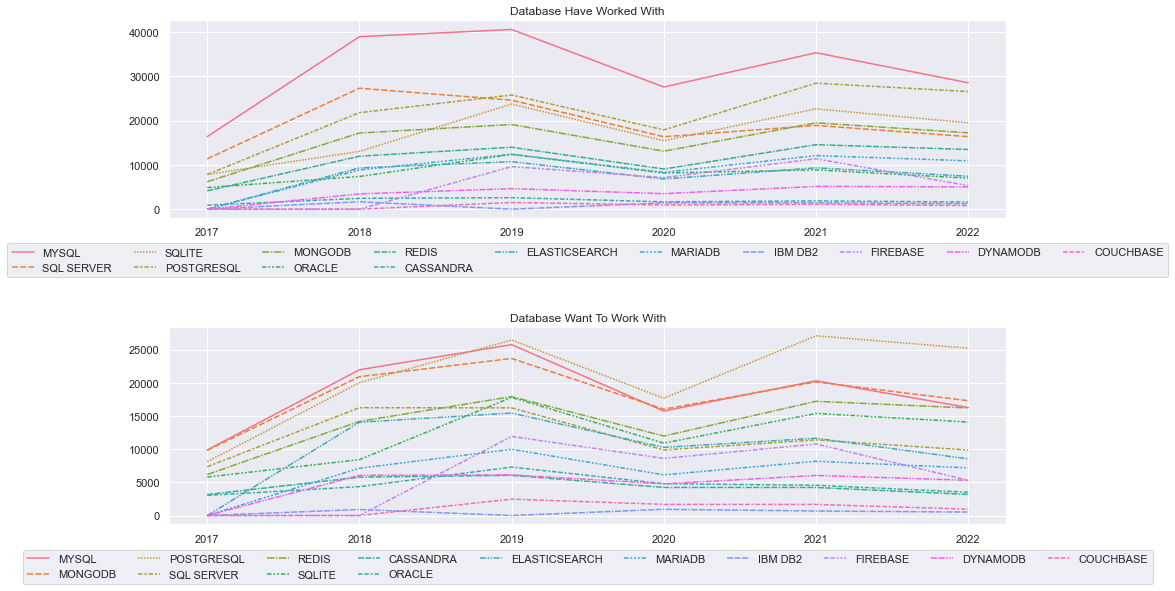
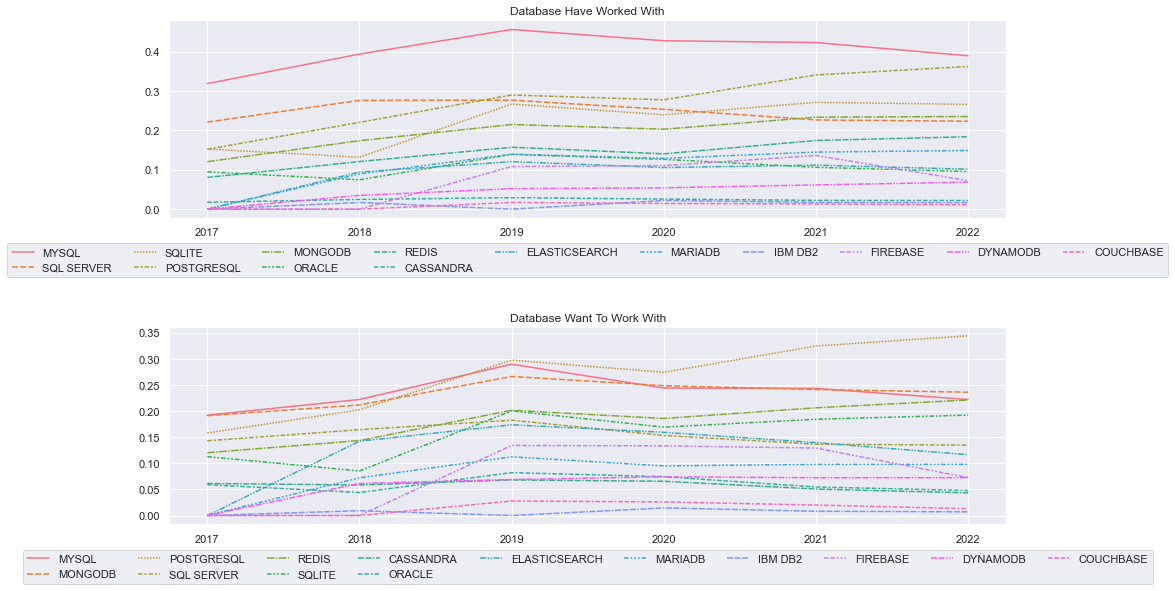
Change question 1  to per

diff --git a/split_multiple_choice.py b/split_multiple_choice.py
@@ -16,3 +16,20 @@ def create_dataframe(df, ds, name):
     df = pd.concat([df, count_ds], axis=1, join="outer")
 
     return df
+
+def create_dataframe_v2(df, ds, name):
+    '''
+    INPUT
+        df - Data Frame
+        ds - Data Series
+        name - Column Name for new data series
+    OUTPUT
+        return newly concat data frame
+    '''
+    s = ds.shape[0]
+    count_ds = ds.str.split(pat=';').explode().str.strip().str.upper().value_counts()
+    count_ds.rename(name, inplace=True)
+    count_ds = count_ds.apply(lambda x: x/s)
+    df = pd.concat([df, count_ds], axis=1, join="outer")
+
+    return df
